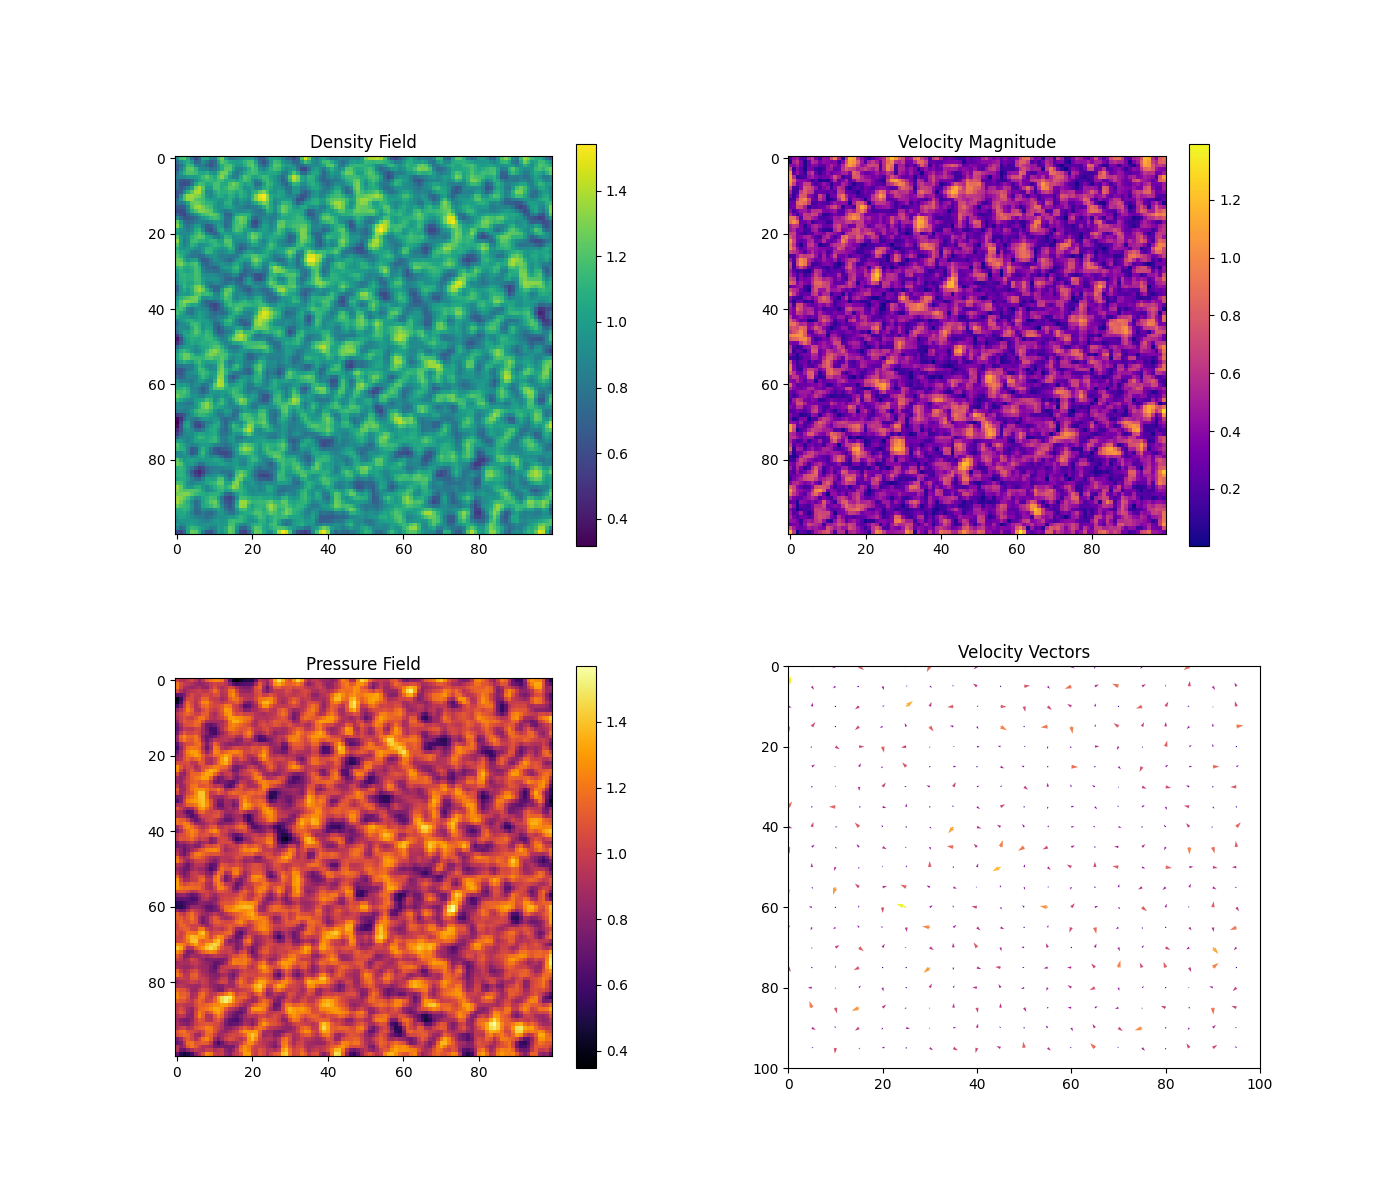
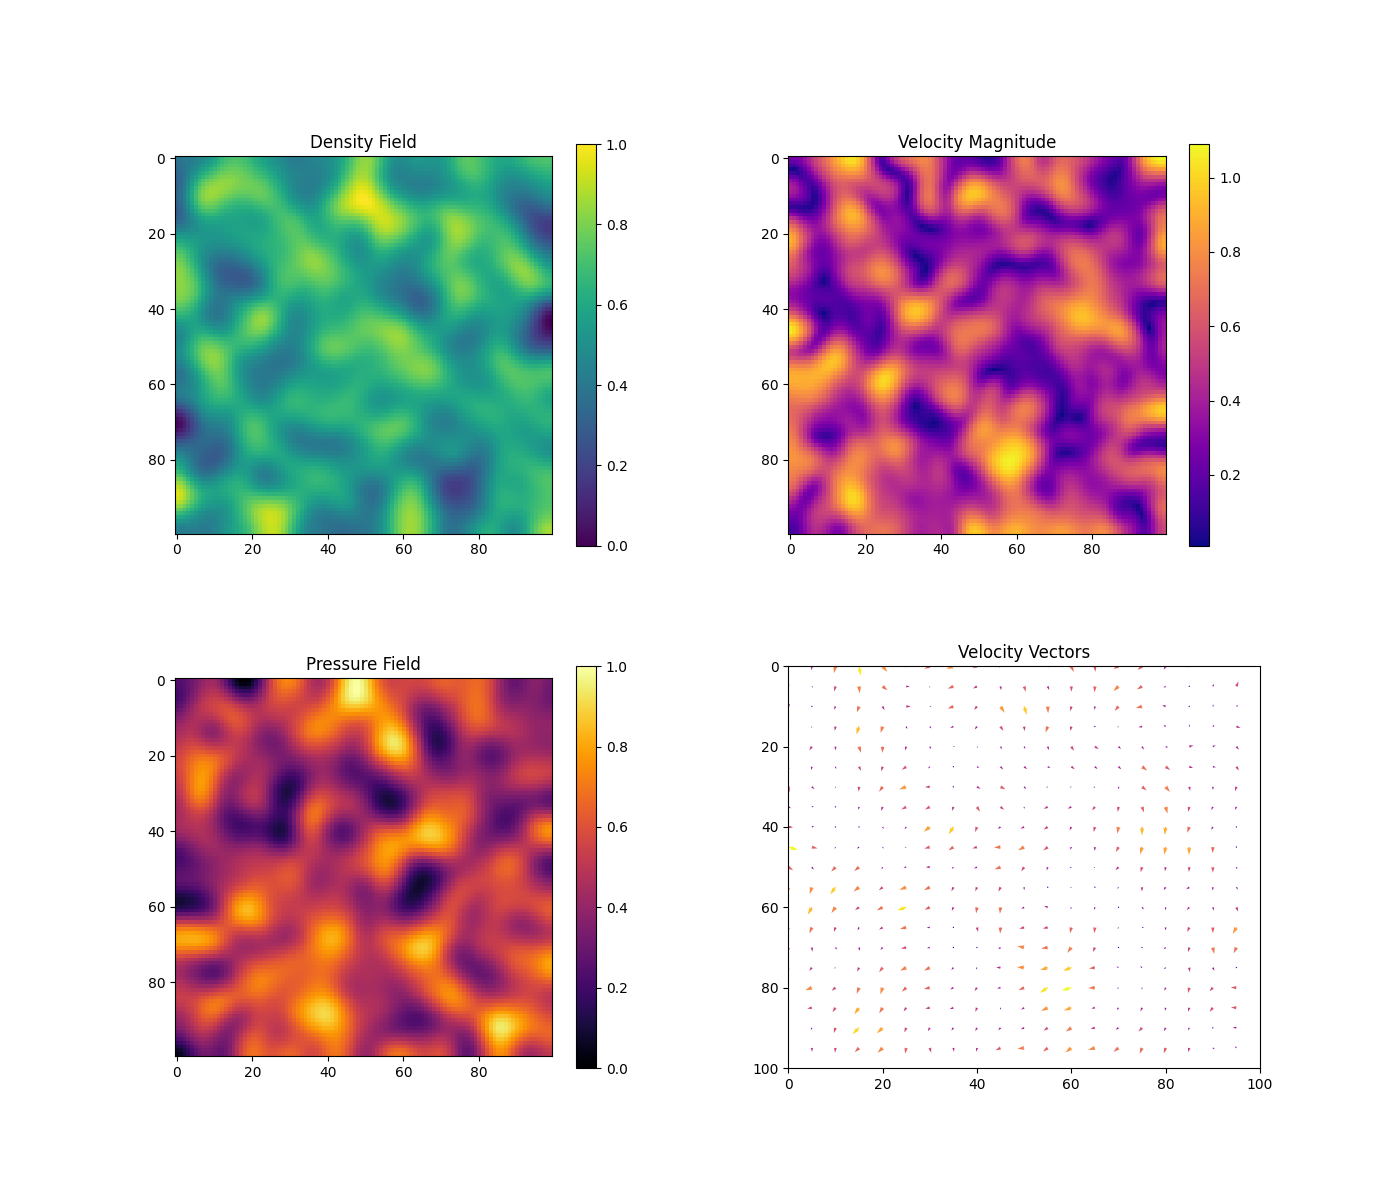
included normalization for initial conditions

diff --git a/euler2d_fields.py b/euler2d_fields.py
@@ -48,6 +48,15 @@ def solution(density_field, velocity_field, pressure_field, gamma = 1.4, use_pet
 
     return solution
 
+def normalize(array, min_val = 0.0, max_val = 1.0, epsilon = 1e-10):
+    # calculate the min / max of the array
+    min_ = np.min(array)
+    max_ = np.max(array)
+
+    normalized = (max_val - min_val) * (array - min_) / (max_ - min_) + min_val + epsilon
+
+    return normalized
+
 def setup(use_petsc = False, riemann_solver = 'roe'):
     '''
     Sets up the simulation environment, configuring the solver, domain, initial conditions,
@@ -79,11 +88,12 @@ def setup(use_petsc = False, riemann_solver = 'roe'):
     # velocity_field = np.zeros((100, 100, 2))
 
     np.random.seed(42)
-    density_field = gaussian_filter(np.random.rand(100, 100) * 2, sigma = 1)
-    pressure_field = gaussian_filter(np.random.rand(100, 100) * 2, sigma = 1)
+    sigma = 4
+    density_field = normalize(gaussian_filter(np.random.rand(100, 100) * 2, sigma))
+    pressure_field = normalize(gaussian_filter(np.random.rand(100, 100) * 2, sigma))
 
-    x_velocity_field = gaussian_filter(np.random.rand(100, 100) * 4 -2, sigma = 1)
-    y_velocity_field = gaussian_filter(np.random.rand(100, 100) * 4 - 2, sigma = 1)
+    x_velocity_field = normalize(gaussian_filter(np.random.rand(100, 100) * 4 - 2, sigma), -1, 1)
+    y_velocity_field = normalize(gaussian_filter(np.random.rand(100, 100) * 4 - 2, sigma), -1, 1)
     velocity_field = np.stack((x_velocity_field, y_velocity_field), axis = -1)
 
     plot_fields(density_field, velocity_field, pressure_field)
@@ -125,8 +135,8 @@ def setplot(plotdata = None):
     plotitem = plotaxes.new_plotitem(plot_type = '2d_pcolor')
     plotitem.plot_var = density
     plotitem.pcolor_cmap = colormaps.yellow_red_blue
-    plotitem.pcolor_cmin = 0.0
-    plotitem.pcolor_cmax = 2.0
+    plotitem.pcolor_cmin = 'auto'
+    plotitem.pcolor_cmax = 'auto'
     plotitem.add_colorbar = True
 
     # figure for density - schlieren
@@ -142,8 +152,8 @@ def setplot(plotdata = None):
     # set up items
     plotitem = plotaxes.new_plotitem(plot_type = '2d_schlieren')
     plotitem.plot_var = density
-    plotitem.schlieren_cmin = 0.0
-    plotitem.schlieren_cmax = 1.0
+    plotitem.schlieren_cmin = 'auto'
+    plotitem.schlieren_cmax = 'auto'
     plotitem.add_colorbar = False
 
     return plotdata
@@ -175,8 +185,8 @@ def setplot_simple(plotdata = None):
     plotitem = plotaxes.new_plotitem(plot_type = '2d_pcolor')
     plotitem.plot_var = density
     plotitem.pcolor_cmap = colormaps.yellow_red_blue
-    plotitem.pcolor_cmin = 0.0
-    plotitem.pcolor_cmax = 2.0
+    plotitem.pcolor_cmin = 'auto'
+    plotitem.pcolor_cmax = 'auto'
     plotitem.add_colorbar = False
 
     # figure for density - schlieren
@@ -193,8 +203,8 @@ def setplot_simple(plotdata = None):
     # set up items
     plotitem = plotaxes.new_plotitem(plot_type = '2d_schlieren')
     plotitem.plot_var = density
-    plotitem.schlieren_cmin = 0.0
-    plotitem.schlieren_cmax = 1.0
+    plotitem.schlieren_cmin = 'auto'
+    plotitem.schlieren_cmax = 'auto'
     plotitem.add_colorbar = False
 
     return plotdata
